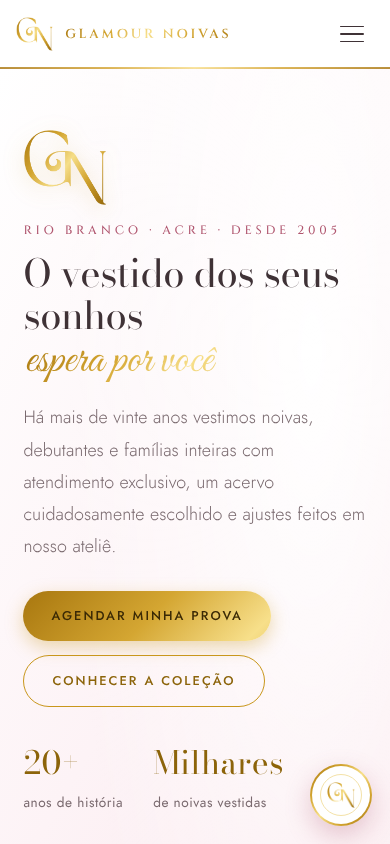
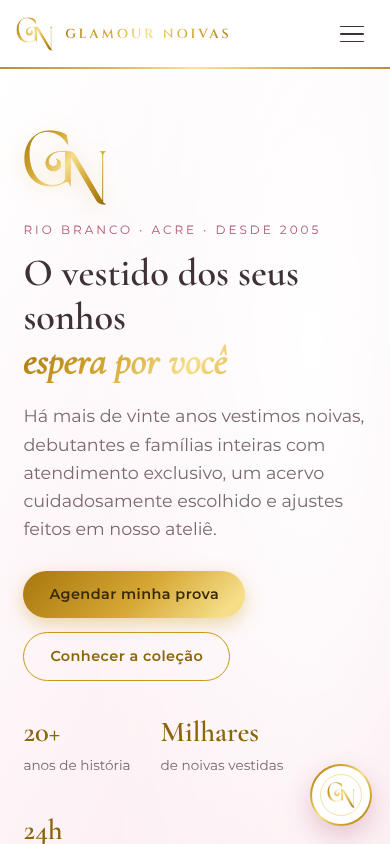
Volta às fontes anteriores (Cormorant Garamond, Montserrat, Cinzel) mantendo ícones, textos e carrossel
Claude-Session: https://claude.ai/code/session_01QKfKEePFHhd3Y5UyopjLB6

diff --git a/public/css/style.css b/public/css/style.css
@@ -297,60 +297,18 @@ input,select,textarea{border:1px solid var(--rose-forte);background:#fff}
 .galeria.recolhida button:nth-child(n+11){display:none}
 
 /* =========================================================
-   TIPOGRAFIA MAISON — Bodoni Moda · Great Vibes · Cinzel · Jost
+   AJUSTES (ícones, rótulos e menu) — fontes originais
    ========================================================= */
-:root{--serif:'Bodoni Moda',Georgia,'Times New Roman',serif;--sans:'Jost',system-ui,-apple-system,sans-serif;--script:'Great Vibes',cursive;--caps:'Cinzel',Georgia,serif}
-body{font-family:var(--sans);font-weight:400;font-size:17px;line-height:1.75;letter-spacing:.005em;color:var(--texto)}
-h1,h2,h3{font-family:var(--serif);font-weight:400;letter-spacing:-.005em;font-optical-sizing:auto}
-h1{font-size:clamp(2.5rem,5.2vw,4rem);line-height:1.08}
-h2{font-size:clamp(2.1rem,4vw,3rem);line-height:1.15;margin-bottom:.4em}
-h3{font-weight:500}
-h1 em,h2 em{font-family:var(--script);font-style:normal;font-weight:400;font-size:1.32em;line-height:.9;letter-spacing:0;padding:0 .12em 0 .04em;display:inline-block}
-h1 em{display:block;margin-top:.12em;font-size:1.25em}
-.sobretitulo,.sobre{font-family:var(--caps);font-size:.76rem;font-weight:500;letter-spacing:.32em;text-transform:uppercase;color:var(--rose-texto)}
-.sobretitulo{text-align:center;margin:0 0 10px}
-.sobretitulo::after{content:"";display:block;width:46px;height:1px;margin:12px auto 0;background:var(--ouro-grad)}
-.sub{font-size:1.02rem}
-.menu a{font-family:var(--sans);font-size:.8rem;font-weight:500;letter-spacing:.16em;text-transform:uppercase}
-.btn{font-family:var(--sans);font-weight:500;font-size:.8rem;letter-spacing:.16em;text-transform:uppercase;padding:14px 28px}
-.btn.grande{font-size:.9rem}
-.lead{font-size:1.12rem;font-weight:300;line-height:1.8}
-.selos strong{font-family:var(--serif);font-weight:400;font-size:2rem}
-.selos li{font-size:.85rem;letter-spacing:.04em}
-.servico h3{font-size:1.5rem;margin-top:14px}
+.sobretitulo{text-align:center;margin:0 0 8px;font-family:var(--sans);font-size:.75rem;font-weight:500;letter-spacing:.25em;text-transform:uppercase;color:var(--rose-texto)}
+.sobretitulo::after{content:"";display:block;width:46px;height:1px;margin:10px auto 0;background:var(--ouro-grad)}
 .servico .ic{color:var(--ouro);line-height:0}
-.servico p{font-size:.95rem;line-height:1.7}
-.peca h3{font-family:var(--serif);font-size:1.55rem;font-weight:400}
-.peca .meta{font-family:var(--caps);font-size:.66rem;letter-spacing:.18em}
-.peca p{font-size:.92rem;line-height:1.65}
-.peca .provar{font-family:var(--sans);font-size:.74rem;letter-spacing:.14em;text-transform:uppercase;text-decoration:none;border-bottom:1px solid var(--ouro);padding-bottom:2px}
-.peca .selo,.peca .nfotos{font-family:var(--caps);letter-spacing:.14em;font-size:.6rem}
 .peca .fav{display:flex;align-items:center;justify-content:center;color:var(--rose-texto);font-size:0}
 .peca .fav.on{color:#c45a7a}
-.filtros button{font-family:var(--sans);font-size:.78rem;letter-spacing:.12em;text-transform:uppercase}
-.jornada span{font-family:var(--serif);font-size:1.3rem;letter-spacing:.04em}
-.jornada h3{font-size:1.6rem}
 .checks li::before{content:"";display:inline-block;width:6px;height:6px;margin:0 12px 2px 0;transform:rotate(45deg);background:var(--ouro)}
-.depoimentos blockquote{font-family:var(--serif);font-style:italic;font-size:1.12rem;line-height:1.65}
-.depoimentos cite{font-family:var(--caps);font-size:.66rem;letter-spacing:.2em;text-transform:uppercase}
-.faq summary{font-family:var(--serif);font-size:1.18rem;font-weight:400}
-label{font-family:var(--sans);font-weight:500;letter-spacing:.02em}
-.opcoes-tipo label{font-weight:400}
-.sucesso h3,.mc-card h3{font-family:var(--serif);font-weight:400}
-.chat,.chat-abrir{font-family:var(--sans)}
-.chat header strong{font-family:var(--serif);font-weight:500;font-size:1.15rem}
-.chat-label{font-family:var(--serif);font-weight:500;font-size:1rem}
-.chat-label small{font-family:var(--sans);font-size:.72rem;letter-spacing:.06em}
-.msg{font-size:.92rem;line-height:1.55}
-.chat-sugestoes button{font-family:var(--sans);font-size:.8rem}
 .chat-form button{display:flex;align-items:center}
-.lightbox p{font-family:var(--serif);font-style:italic;font-size:1.1rem}
-.rodape{font-family:var(--sans)}
-/* botão de menu em três linhas finas */
 .menu-btn{width:44px;height:44px;flex-direction:column;justify-content:center;gap:6px;padding:0 10px}
 .menu-btn span{display:block;height:1.5px;background:var(--texto);border-radius:2px}
 @media (max-width:860px){.menu-btn{display:flex}}
-@media (max-width:520px){h1 em{font-size:1.18em}body{font-size:16px}}
 
 /* =========================================================
    COLEÇÃO EM CARROSSEL NO CELULAR
@@ -374,10 +332,11 @@ label{font-family:var(--sans);font-weight:500;letter-spacing:.02em}
   .car-seta:disabled{opacity:.35;cursor:default}
   .car-progresso{flex:1;height:2px;background:var(--rose-forte);border-radius:2px;overflow:hidden}
   .car-progresso span{display:block;height:100%;width:0;background:var(--ouro-grad);transition:width .3s}
-  .car-contador{font-family:var(--caps);font-size:.72rem;letter-spacing:.18em;color:var(--ouro-texto);min-width:58px;text-align:center}
+  .car-contador{font-family:var(--sans);font-size:.72rem;letter-spacing:.18em;color:var(--ouro-texto);min-width:58px;text-align:center}
 }
 @media (max-width:860px){
   .grade-catalogo .peca p{flex:none;max-height:calc(1.65em * 3)}
   .grade-catalogo .peca .tam{margin-top:auto}
   .galeria{grid-template-columns:repeat(2,1fr);gap:10px}
 }
+h1 em{display:block}

diff --git a/public/admin.html b/public/admin.html
@@ -6,12 +6,12 @@
 <link rel="manifest" href="manifest.webmanifest"><meta name="theme-color" content="#f8dfe6"><meta name="apple-mobile-web-app-capable" content="yes">
 <title>Painel · Glamour Noivas</title>
 <link rel="icon" href="img/logo/icone-32.png" type="image/png"><link rel="apple-touch-icon" href="img/logo/icone-180.png">
-<link href="https://fonts.googleapis.com/css2?family=Bodoni+Moda:opsz,wght@6..96,500&family=Jost:wght@400;500&display=swap" rel="stylesheet">
+<link href="https://fonts.googleapis.com/css2?family=Cormorant+Garamond:wght@600&family=Montserrat:wght@400;500;600&display=swap" rel="stylesheet">
 <style>
 :root{--vinho:#4a3a3e;--ouro:#c9971c;--creme:#fcedf1;--marfim:#fff;--suave:#7a6a6f;--rose:#f8dfe6;--rose-forte:#eeb8c7;--ouro-texto:#8c640a;--ouro-grad:linear-gradient(135deg,#a8770f 0%,#d4a632 28%,#f7df8a 50%,#d4a632 72%,#a8770f 100%)}
-*{box-sizing:border-box}body{margin:0;font-family:Jost,system-ui,sans-serif;background:#fdf6f8;color:#2b2226;font-size:15px}
+*{box-sizing:border-box}body{margin:0;font-family:Montserrat,system-ui,sans-serif;background:#fdf6f8;color:#2b2226;font-size:15px}
 header{background:linear-gradient(120deg,var(--rose),var(--rose-forte));color:var(--vinho);border-bottom:3px solid var(--ouro);padding:14px 20px;display:flex;justify-content:space-between;align-items:center;flex-wrap:wrap;gap:10px}
-header h1{font-family:'Bodoni Moda',serif;margin:0;font-size:1.6rem}
+header h1{font-family:'Cormorant Garamond',serif;margin:0;font-size:1.6rem}
 nav{display:flex;gap:6px;flex-wrap:wrap}nav button{background:#fff;border:1px solid var(--rose-forte);color:var(--vinho);border-radius:999px;padding:7px 14px;cursor:pointer;font:inherit}
 nav button.ativo{background:var(--ouro-grad);border-color:transparent;color:#3a2905;font-weight:600}
 main{padding:20px;max-width:1200px;margin:0 auto}

diff --git a/public/index.html b/public/index.html
@@ -14,7 +14,7 @@
 <link rel="apple-touch-icon" href="img/logo/icone-180.png">
 <link rel="preconnect" href="https://fonts.googleapis.com">
 <link rel="preconnect" href="https://fonts.gstatic.com" crossorigin>
-<link href="https://fonts.googleapis.com/css2?family=Bodoni+Moda:ital,opsz,wght@0,6..96,400;0,6..96,500;1,6..96,400&family=Cinzel:wght@500;600&family=Great+Vibes&family=Jost:wght@300;400;500&display=swap" rel="stylesheet">
+<link href="https://fonts.googleapis.com/css2?family=Cinzel:wght@500;600&family=Cormorant+Garamond:ital,wght@0,500;0,600;1,500&family=Montserrat:wght@400;500;600&display=swap" rel="stylesheet">
 <link rel="preload" as="image" href="img/vestidos/renda-imperial-3.webp">
 <link rel="stylesheet" href="css/style.css">
 <script type="application/ld+json">
